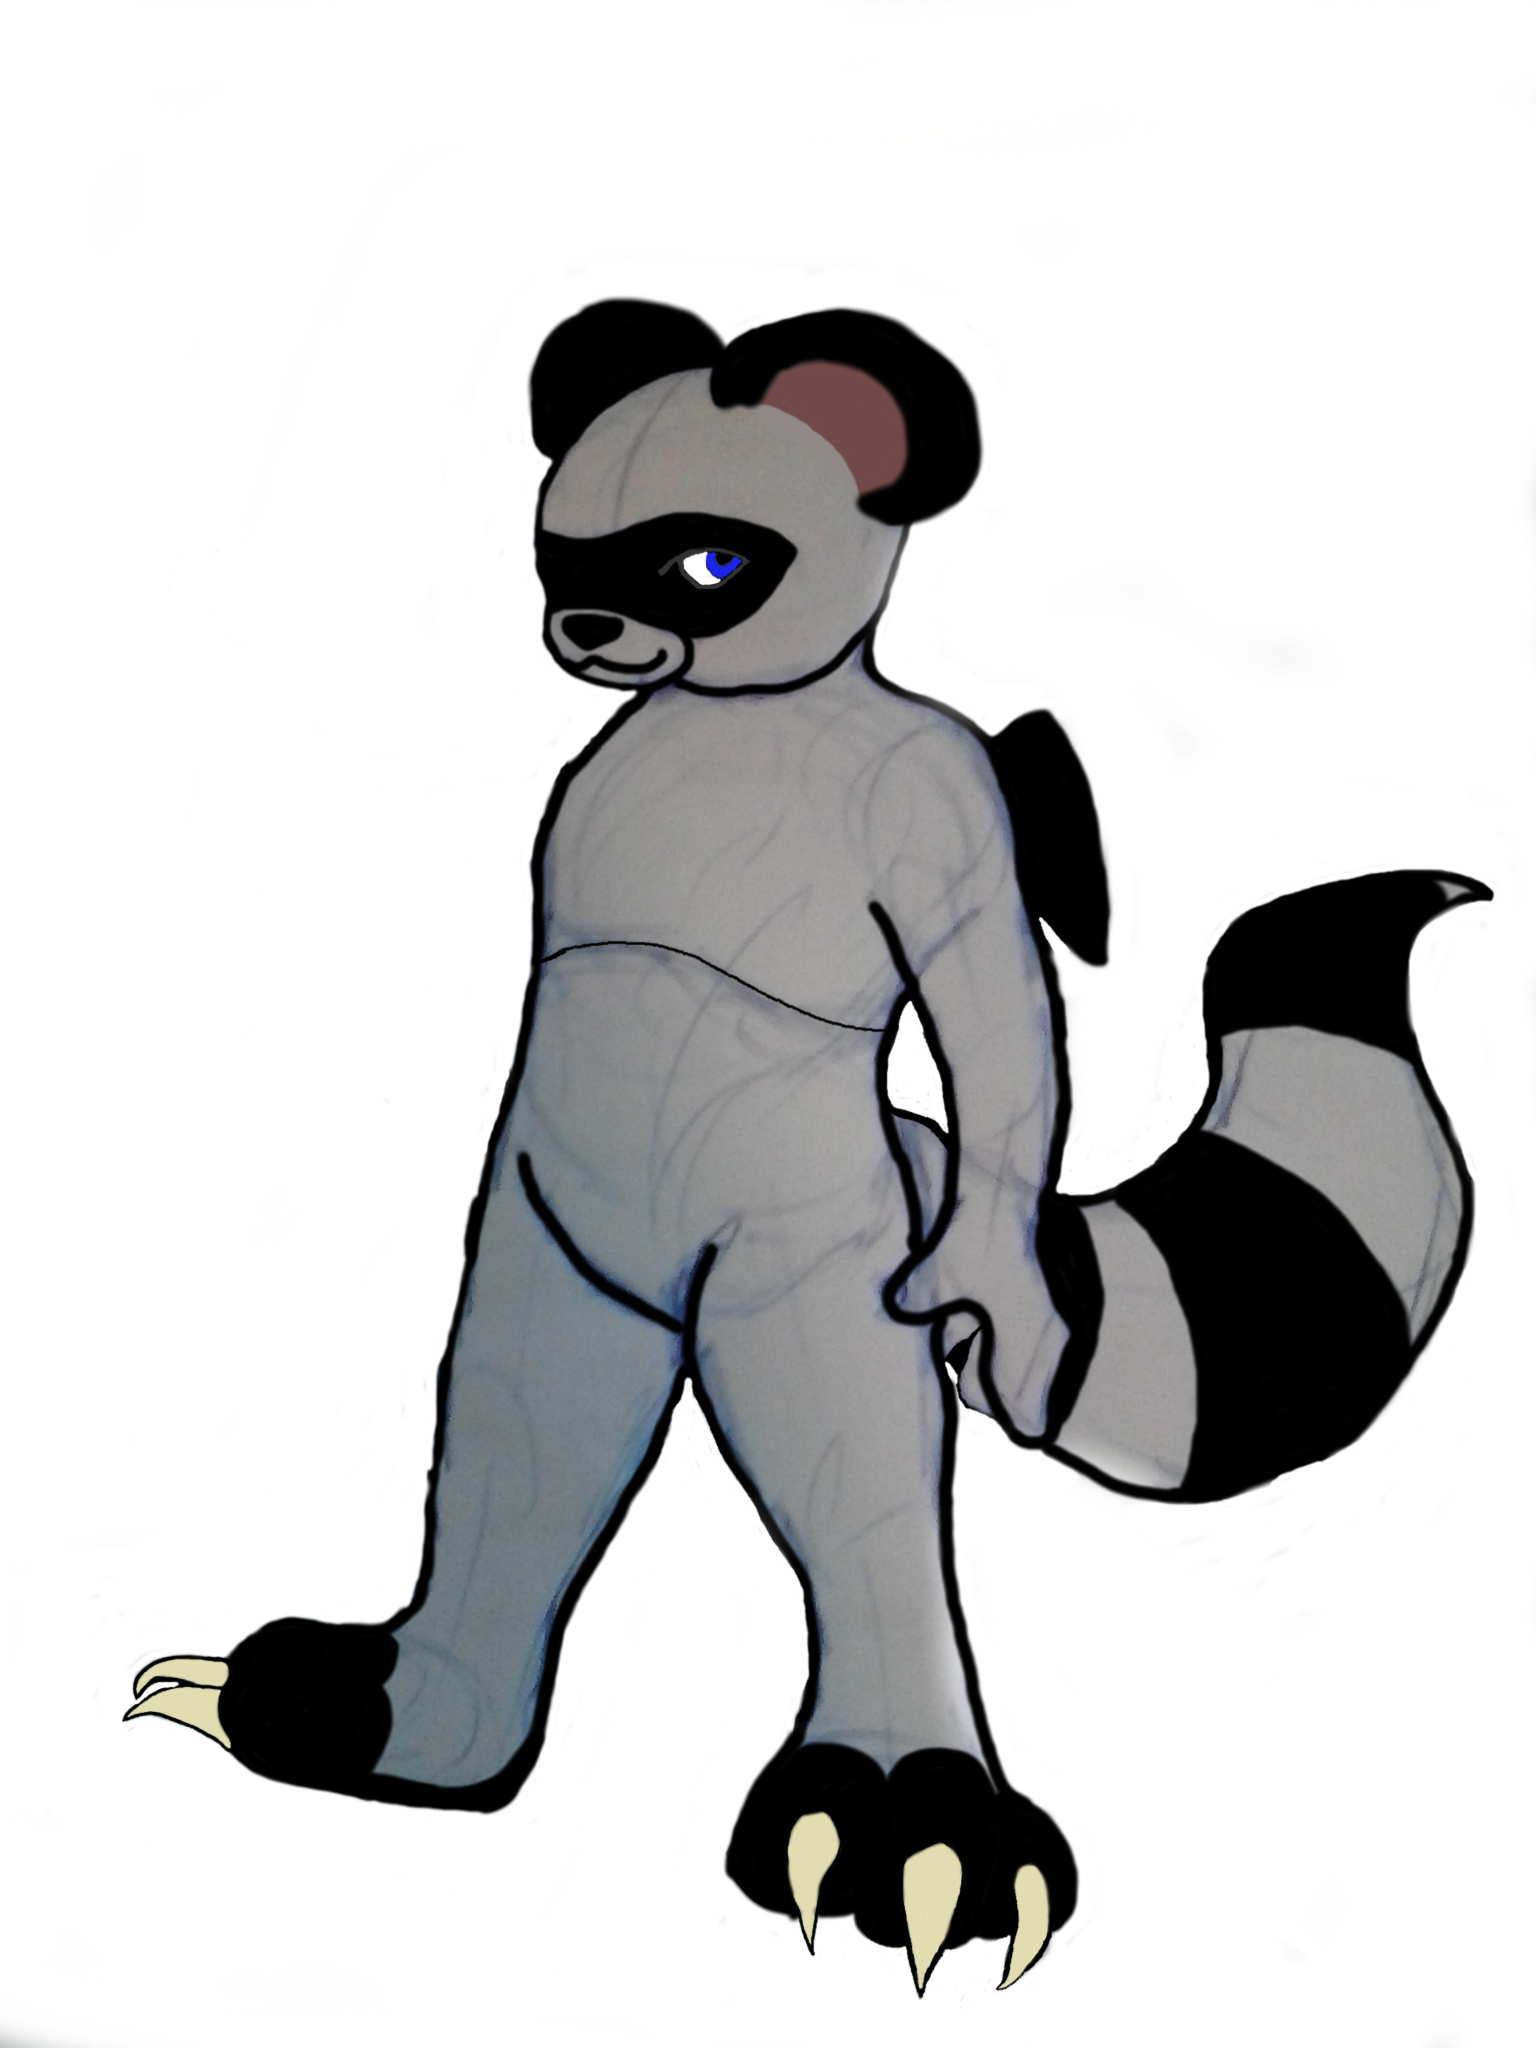
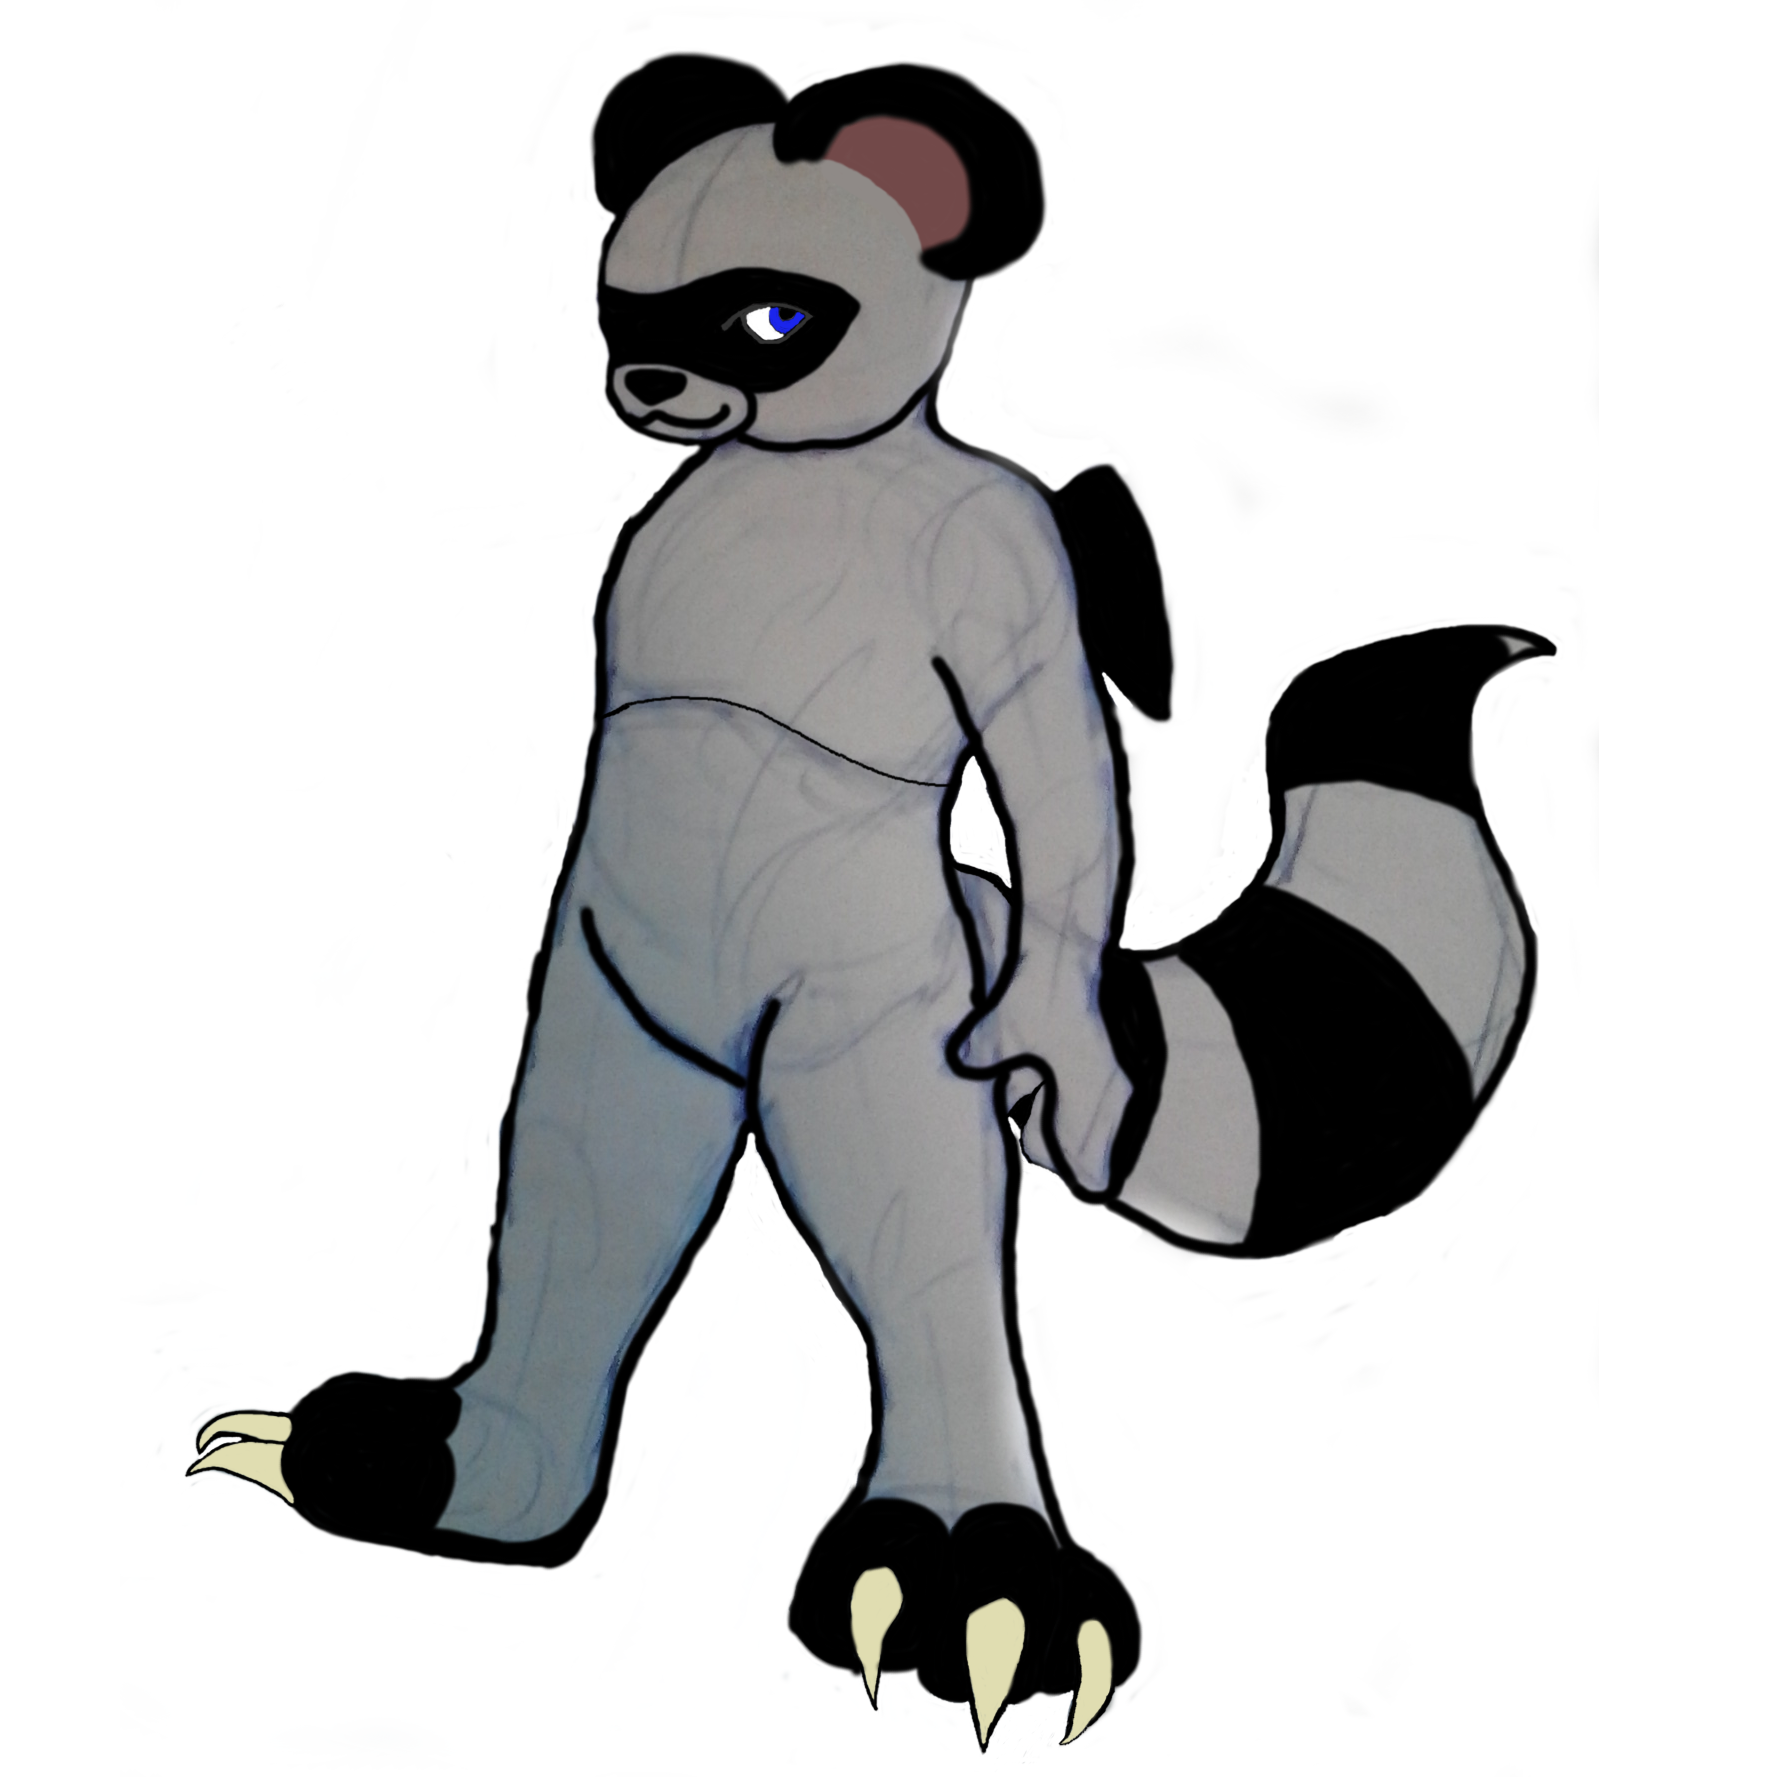
Mostly doesn't work still

Changed region(s): [[0.0625, 0.0309, 0.9688, 0.9882], [0.4375, 0.4015, 0.5, 0.4323], [0.0, 0.9882, 0.0312, 1.0]]

diff --git a/CS290/FinalWithJason/style/I_got_style.css b/CS290/FinalWithJason/style/I_got_style.css
@@ -66,30 +66,64 @@ h1 {
 
 
 /* The element to apply the animation to */
-#da-gobin-object { /* applies to the anchor */
-  width: 69px;
-  height: 69px;
+#da-gobin-object {
+  display: inline-block;
+  background-image: url("../assets/Cropandacoon.png");
+  background-size: cover;
+  /* border: none; */
+
+  width: 100%;
+  height: 100%;
+
   position: absolute;
-  animation-name: gobin-wigglin;
-  animation-duration: 1s;
-  animation-iteration-count: 1;
+  
+  /* z-index: 2000; */
+  top: 30%;
+  left: 30%;
+}
+
+
+#da-gobin-div {
+  /* animation-name: gobin-wigglin;
+  animation-duration: 3s;
+  animation-iteration-count: infinite;
   animation-timing-function: linear;
-  z-index: 2000;
+  animation-delay: 1s; */
+  
+  position: absolute;
+  width: 6.9%;
+  height: 6.9%;
+  left: 30%;
+  top: 30%;
 }
-#da-gobin-image { /* applies to the image in the anchor */
-  width: 69px;
-  height: 69px;
-  /* border: 5px solid #000000; */
-  z-index: -289580270;
-  opacity: 1;
+
+/* #da-gobin-div {
+  animation-name: gobin-wigglin;
+  animation-duration: 3s;
+  animation-iteration-count: infinite;
+  animation-timing-function: linear;
+  animation-delay: 1s;
+} */
+
+#da-crit-bocks {
+  display: inline-block;
+  background-size: cover;
+  /* width: 1px; */
+  height: 10px;
+  
+  /* z-index: 2000; */
+  position: absolute;
+  top: 70%;
+  left: 60%;
 }
+
 @keyframes gobin-wigglin {
   0% {
-    left: 50%;
-    top: 50%;
+    left: 30%;
+    top: 30%;
   }
   100% {
-    left: 50%;
-    top: 50%;
+    left: 60%;
+    top: 60%;
   }
 }

diff --git a/CS290/FinalWithJason/Project.html b/CS290/FinalWithJason/Project.html
@@ -7,11 +7,18 @@
     <meta name="author" content="John Doe">
     <meta name="viewport" content="width=device-width, initial-scale=1.0">
     <base target="_blank" rel="noopener noreferrer">
+
     <link rel="stylesheet" href="style/I_got_style.css">
+    <script src="scripts/move.js"></script>
+
     <link rel="icon" href="assets/cropandacoon.png">
     <title>Steal Bob's Loot</title>
   </head>
   <body>
-
+    <div id="da-gobin-div">
+      <button id="da-gobin-object" onclick="showAlert('Normal thefting')">
+        <button id="da-crit-bocks" onclick="showAlert('Crit!')"></button>
+      </button>
+    </div>
   </body>
 </html>

diff --git a/CS290/FinalWithJason/scripts/move.js b/CS290/FinalWithJason/scripts/move.js
@@ -1,0 +1,10 @@
+function showAlert(msg) {
+    document.getElementById("da-gobin-div").onmouseover = function() {
+        alert("Hover!");
+    };
+    alert(msg);
+}
+
+document.getElementById("da-gobin-div").onmouseover = function() {
+    alert("Hover!");
+};
